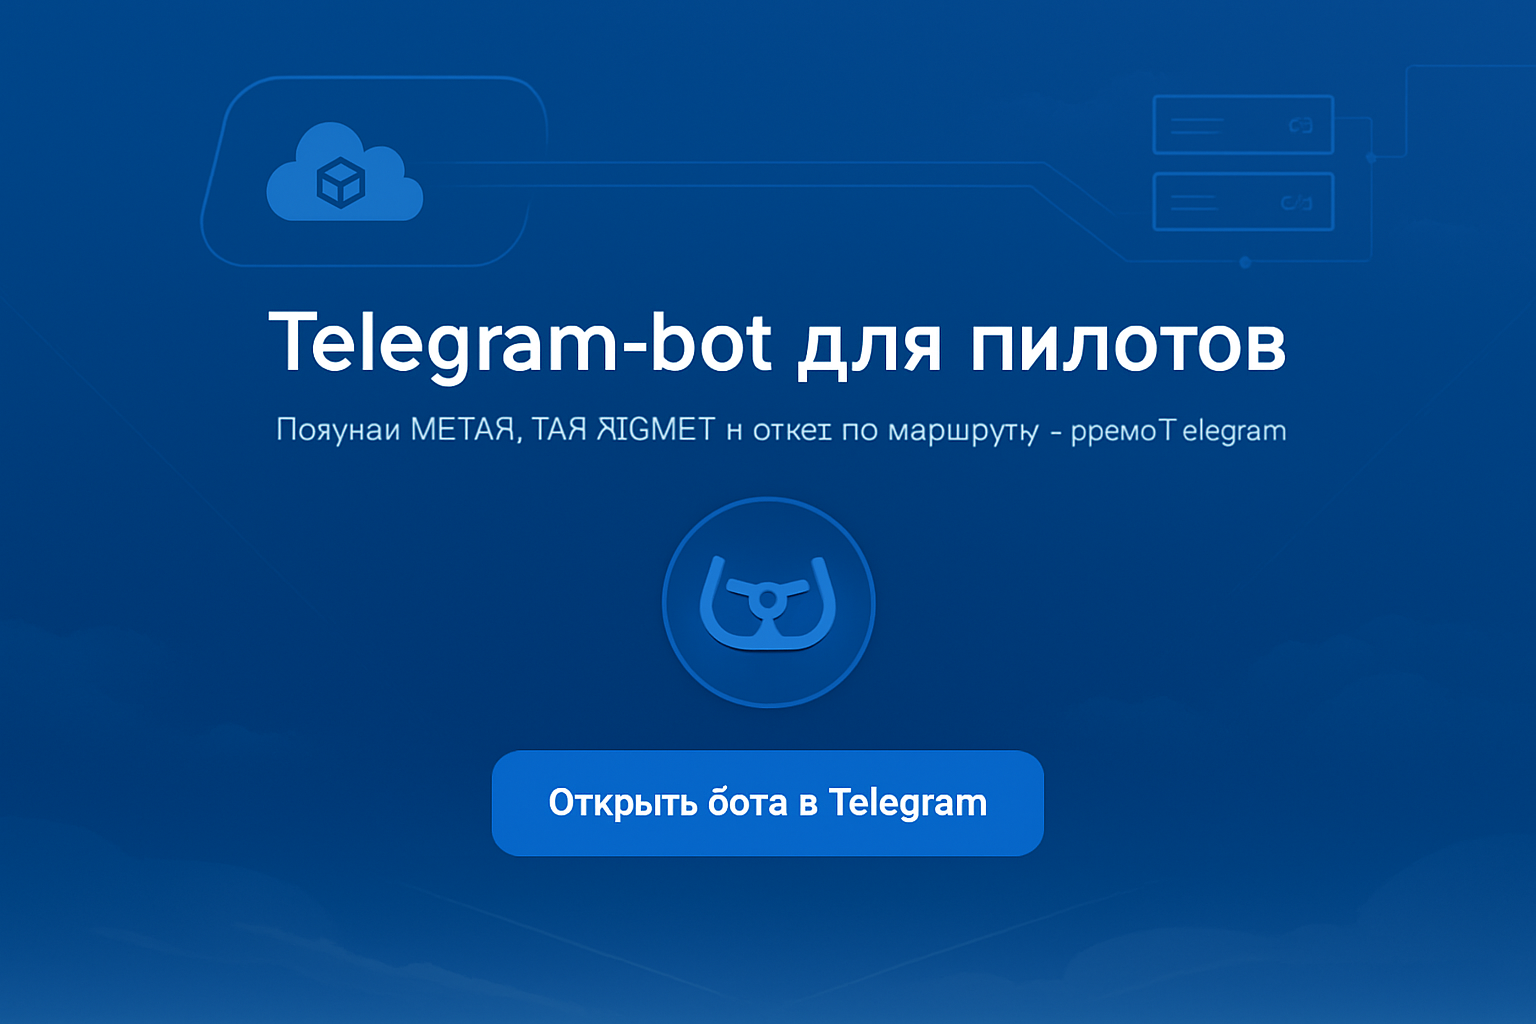
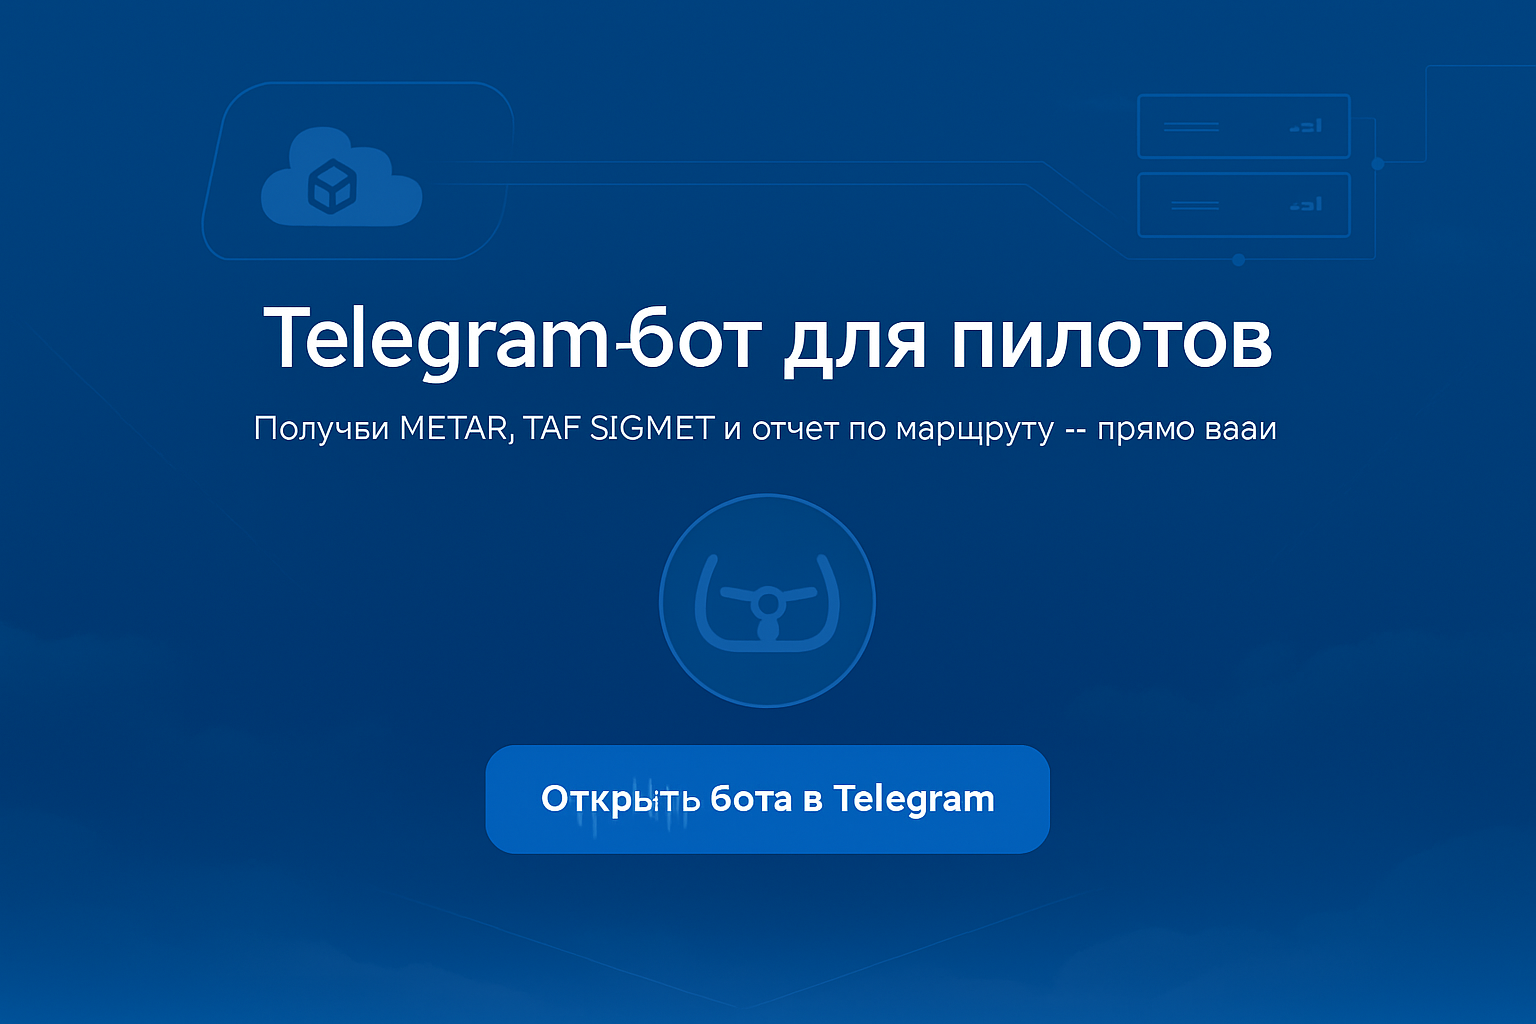
Add files via upload

diff --git a/index.html b/index.html
@@ -56,8 +56,8 @@
   </style>
 </head>
 <body>
-  <h1>✈ AeroBot</h1>
-  <p>Телеграм-бот для пилотов: METAR, TAF, SIGMET, GAMET и отчёт в Word</p>
-  <a class="button" href="https://t.me/pilot_weather_bot" target="_blank">Открыть в Telegram</a>
+  <h1>🛫 AeroBot</h1>
+  <p>Получай METAR, TAF, SIGMET, GAMET и отчёт по маршруту — прямо в Telegram</p>
+  <a class="button" href="https://t.me/pilot_weather_bot" target="_blank">Открыть бота в Telegram</a>
 </body>
 </html>
